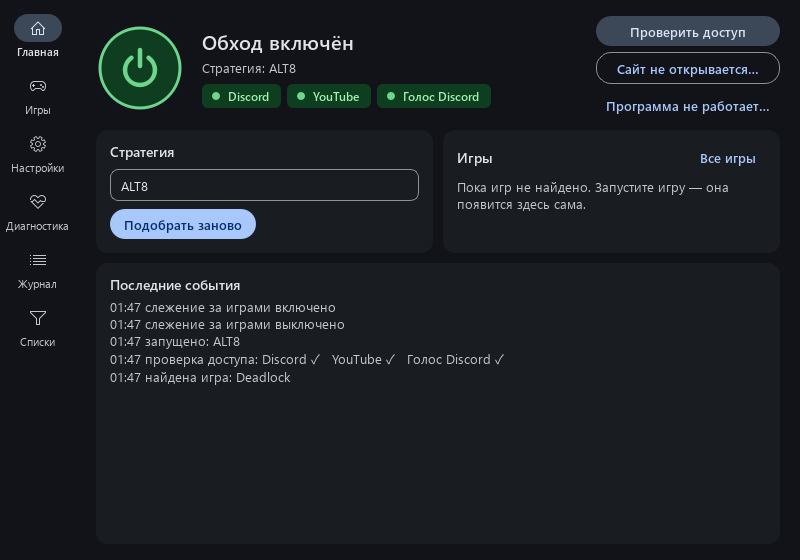
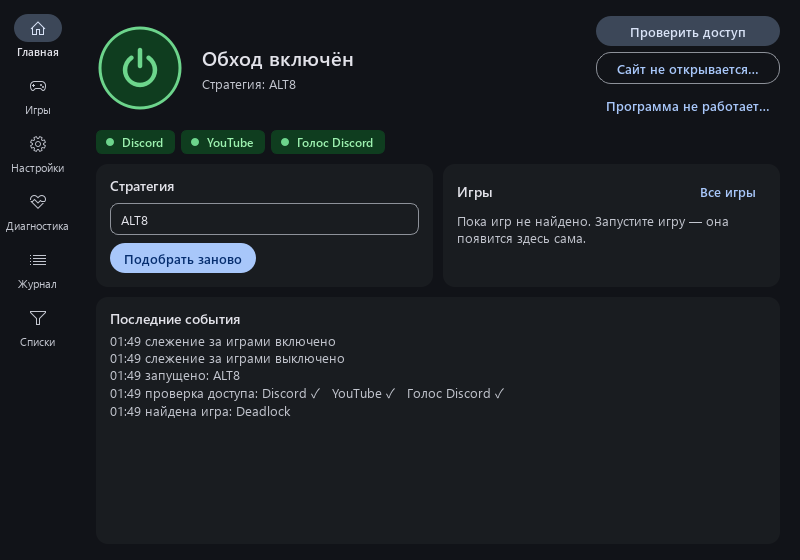
Status chips on their own row (no clipping at min width); screenshots

diff --git a/app/gui/window.py b/app/gui/window.py
@@ -180,8 +180,7 @@ class MainWindow(QWidget):
         col.addWidget(self.substatus)
         self.chips = QHBoxLayout()
         self.chips.setSpacing(6)
-        self.chips.setContentsMargins(0, 4, 0, 0)
-        col.addLayout(self.chips)
+        self.chips.setContentsMargins(0, 0, 0, 0)
         col.addStretch()
         hero.addLayout(col, 1)
         acts = QVBoxLayout()
@@ -207,6 +206,7 @@ class MainWindow(QWidget):
         acts.addStretch()
         hero.addLayout(acts)
         lay.addLayout(hero)
+        lay.addLayout(self.chips)  # own full-width row: next to the action buttons they got squeezed and clipped
         self.progress = QProgressBar(objectName="thin")
         self.progress.setTextVisible(False)
         self.progress.setRange(0, 0)

diff --git a/app/gui/widgets.py b/app/gui/widgets.py
@@ -306,6 +306,7 @@ class StatusChip(QWidget):
     def __init__(self, name: str, ok: bool | None, note: str = "", parent=None):
         super().__init__(parent)
         self.setObjectName("chip")
+        self.setSizePolicy(QSizePolicy.Fixed, QSizePolicy.Fixed)  # never squeezed into a clipped label
         self.setAttribute(Qt.WA_StyledBackground, True)
         self.setProperty("ok", "none" if ok is None else ("yes" if ok else "no"))
         lay = QHBoxLayout(self)

diff --git a/CHANGELOG.md b/CHANGELOG.md
@@ -17,7 +17,7 @@
 
 ### Исправлено
 - Пока идёт подбор, по кольцу кнопки питания снова видно бегущую дугу. Раньше она сливалась с кольцом.
-- Метки сервисов больше не обрезаются. «Скорость YouTube» объединена с меткой YouTube: «YouTube: медленно».
+- Метки сервисов стоят отдельной строкой и больше не обрезаются, даже в маленьком окне. «Скорость YouTube» объединена с меткой YouTube: «YouTube: медленно».
 - Подсветка при наведении на переключатели и кнопки больше не «залипает».
 - Ctrl+6 не открывает скрытый раздел «Списки».
 - В блоке «Обновления» больше нет пустой строки, пока проверки не было.
